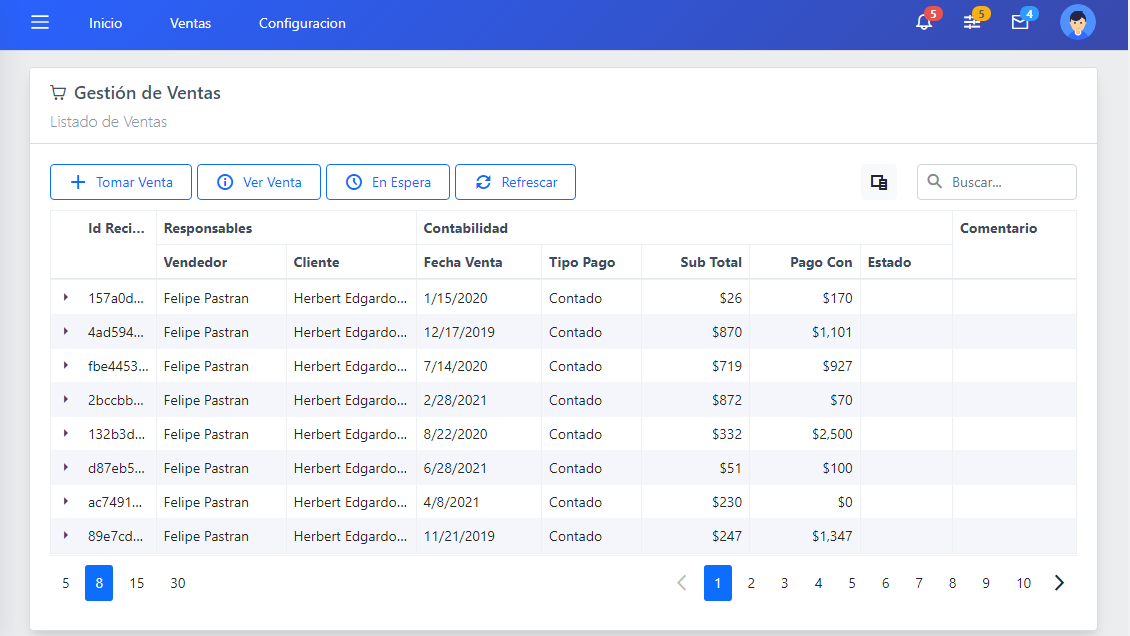
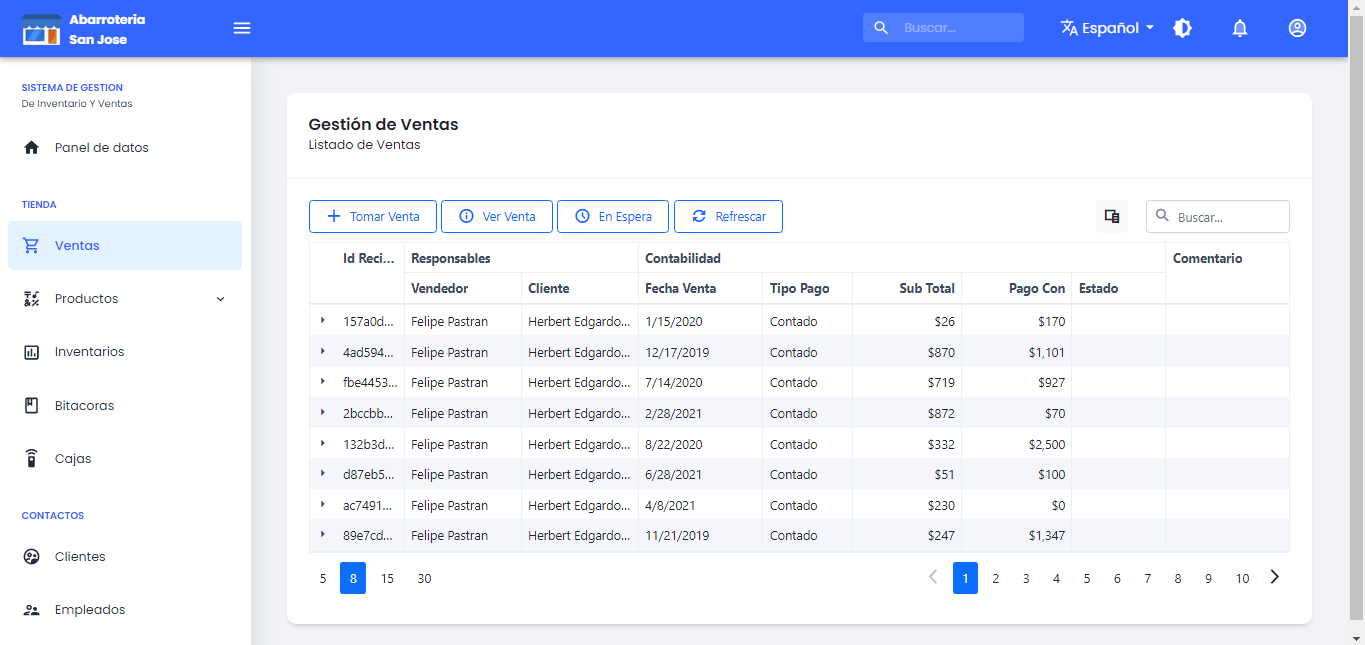
fixes

diff --git a/src/components/layout/container/sidebar/Sidebar.js b/src/components/layout/container/sidebar/Sidebar.js
@@ -4,7 +4,7 @@ import { makeStyles, useMediaQuery, useTheme, Divider, Drawer, Grid, Hidden } fr
 
 import MenuList from './menuList/MenuList';
 
-import logo from 'src/assets/images/logo.svg';
+import logo from 'src/assets/img/tienda.png';
 import { drawerWidth } from 'src/services/constant';
 
 const useStyles = makeStyles((theme) => ({
@@ -63,7 +63,10 @@ const MainLayout = (props) => {
                     className={[classes.toolbar, classes.logoContainer].join(' ')}
                 >
                     <Grid item>
-                        <img src={logo} alt="Logo" />
+                        <div style={{display: "flex", gap:".5rem", alignItems:"center"}}>
+                            <img src={logo} alt="Logo" height="35"  />
+                            <span style={{fontWeight: "700", color: "#fff"}}>Abarroteria San Jose</span>
+                        </div>
                     </Grid>
                 </Grid>
             </Hidden>

diff --git a/src/components/layout/container/header/Header.js b/src/components/layout/container/header/Header.js
@@ -51,8 +51,8 @@ const Header = ({drawerToggle}) => {
                             <Grid item>
                                 <Box mt={0.5}>
                                     <div style={{display: "flex", gap:".5rem", alignItems:"center"}}>
-                                    <img src={logo} alt="Logo" height="35"  />
-                                    <span style={{fontWeight: "700", maxWidth:"100px"}}>Abarroteria San Jose</span>
+                                        <img src={logo} alt="Logo" height="35"  />
+                                        <span style={{fontWeight: "700", maxWidth:"100px"}}>Abarroteria San Jose</span>
                                     </div>
                                 </Box>
                             </Grid>

diff --git a/src/index.js b/src/index.js
@@ -20,7 +20,6 @@ ReactDOM.render(
                 <NiceModal.Provider>
                     <App/>
                 </NiceModal.Provider>
-                <ReactQueryDevtools initialIsOpen={false} />
             </QueryClientProvider>
         </AuthProvider>
     </React.StrictMode>,
